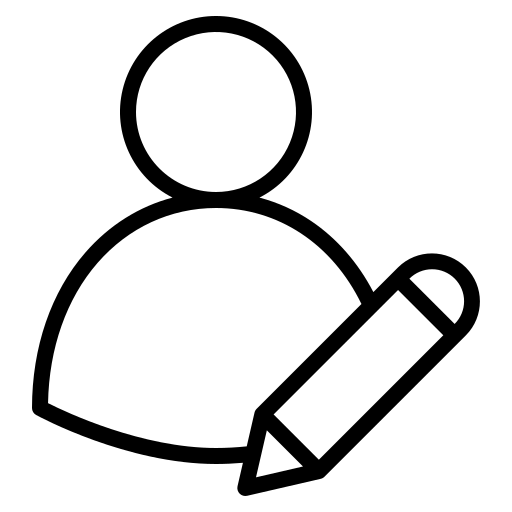
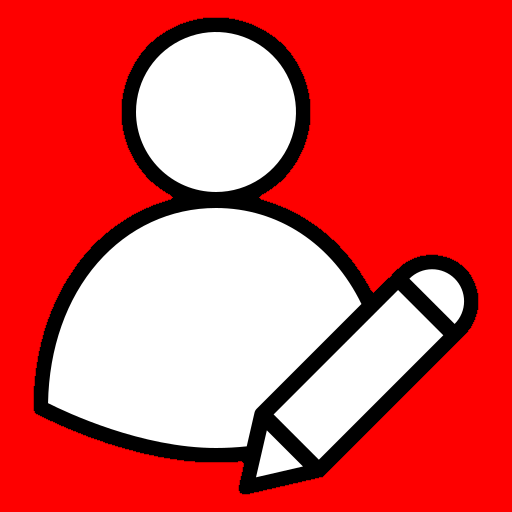
Ajustes de cores de icones

diff --git a/PI/css/styleeditarusuario.css b/PI/css/styleeditarusuario.css
@@ -129,7 +129,7 @@ a:hover {
   margin-left: 20px;
   margin-top: 5px;
   margin-bottom: 5px;
-  background-color: #df0707;
+  background-color: white;
   
 
 
@@ -143,10 +143,11 @@ a:hover {
      align-content: center;
      flex-wrap: wrap;
      border: black ridge 1px;
-     background-color: #df0707;
+     background-color: red;
      font-family: Barlow;
      font-size: 21px;
      padding-top: 5px;
+     color: white;
 
 }
 
